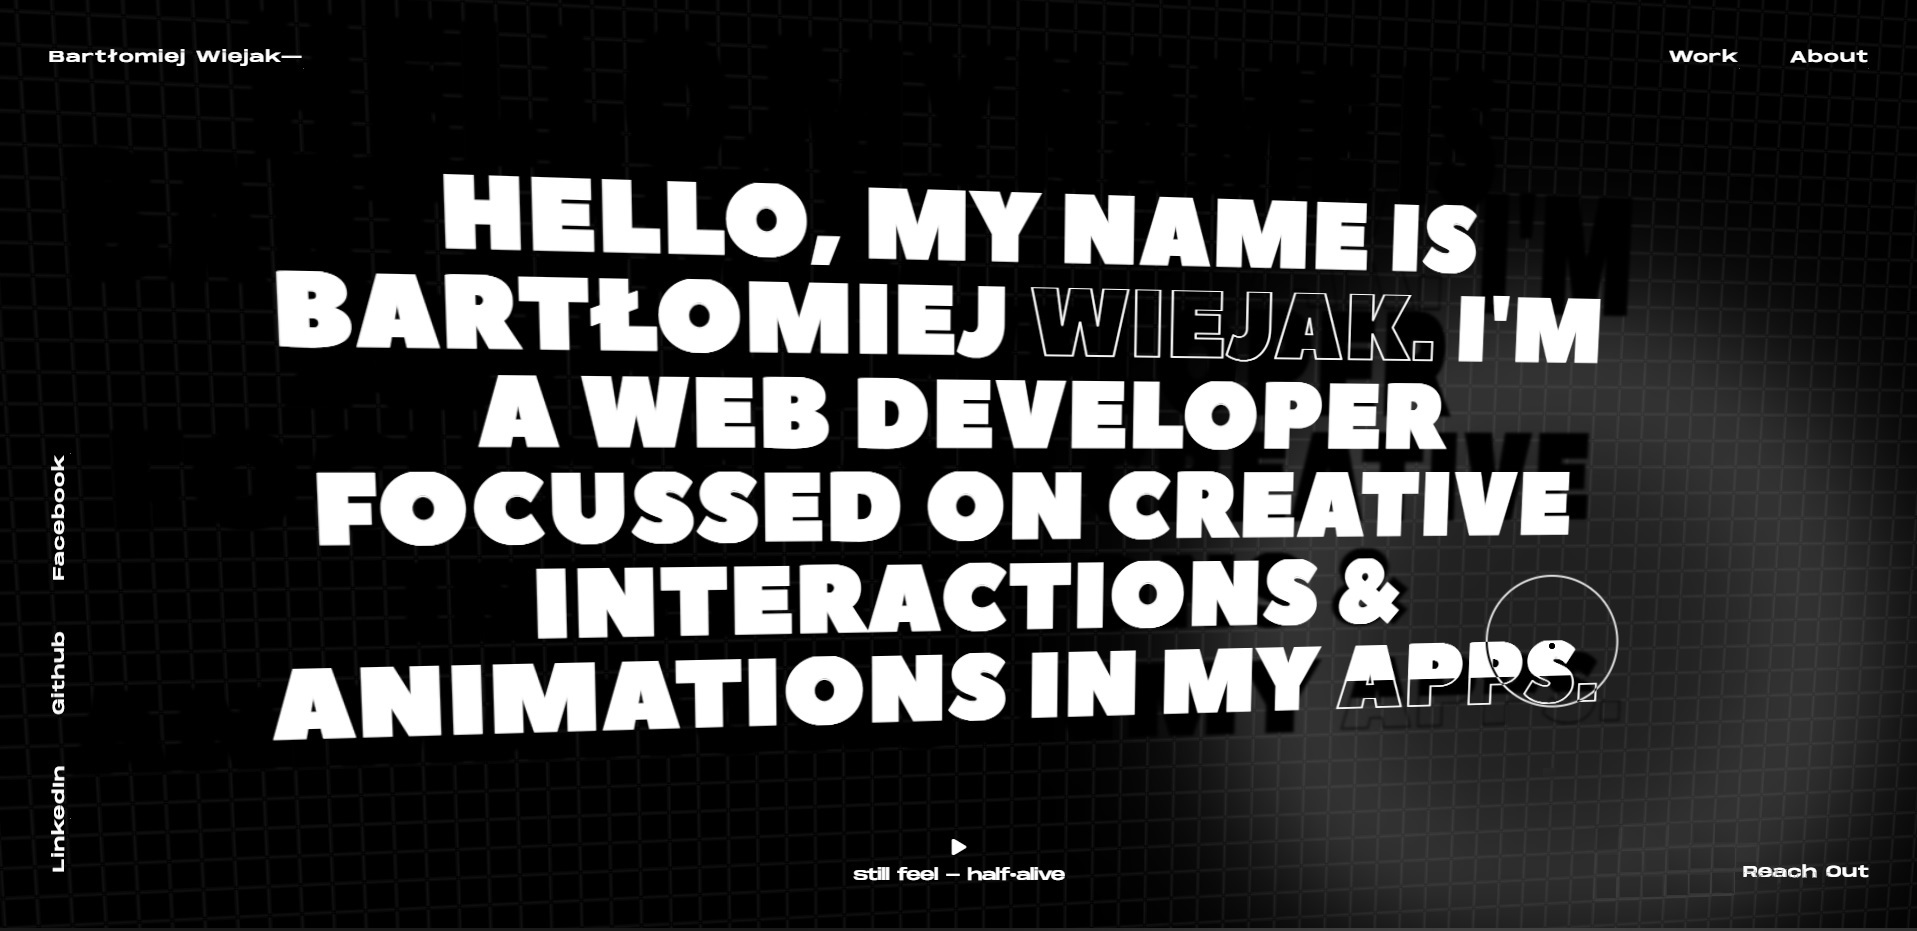
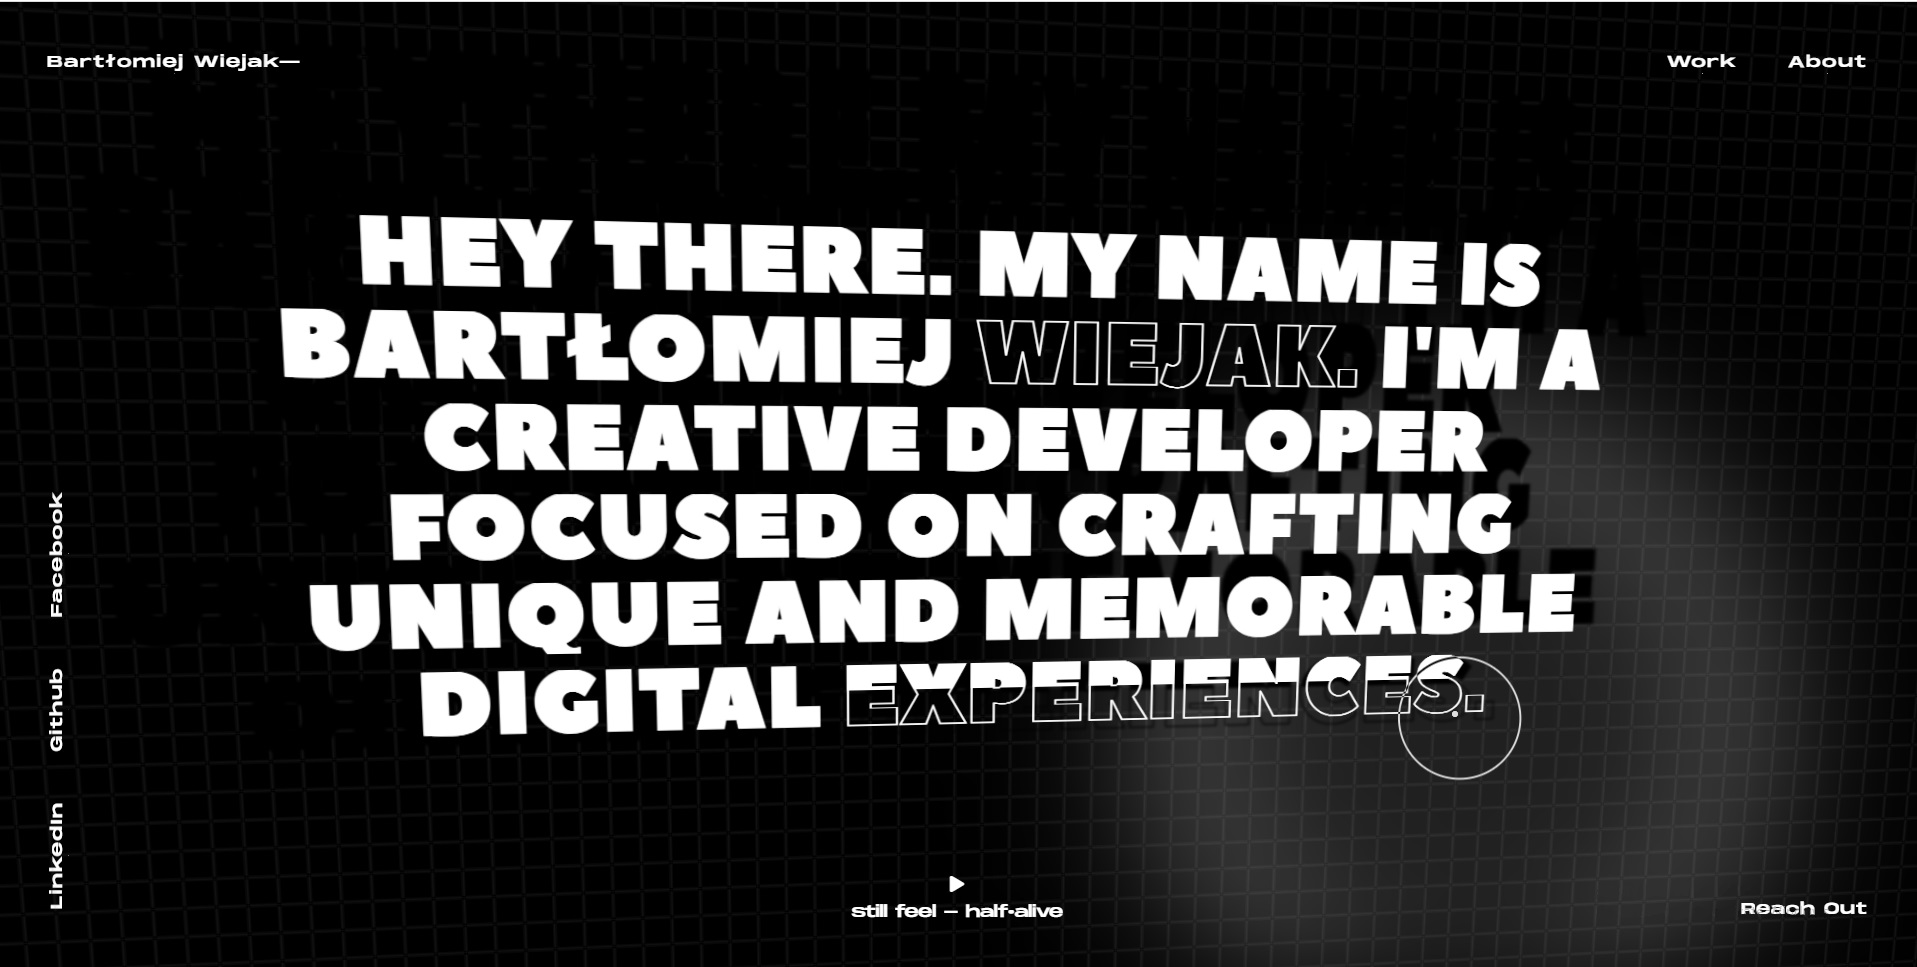
Change meta description and preview image

diff --git a/public/index.html b/public/index.html
@@ -2,16 +2,16 @@
 <html lang="en" prefix="og: https://ogp.me/ns#">
 
 <head>
-  <title>Bartłomiej Wiejak — Interactive Web Developer</title>
+  <title>Bartłomiej Wiejak — Creative Developer</title>
   <meta name="description"
-    content="Bartłomiej Wiejak is a web developer focussed on creative interactions and slick animations in his apps.">
+    content="Bartłomiej Wiejak is a Creative Developer focused on JavaScript for interactive projects.">
   <meta name="theme-color" content="#ffffff" />
   <meta charset="utf-8" />
   <meta name="viewport" content="width=device-width, initial-scale=1, shrink-to-fit=no" />
   <meta property="og:type" content="website">
-  <meta property="og:title" content="Bartłomiej Wiejak - Interactive Web Developer">
+  <meta property="og:title" content="Bartłomiej Wiejak — Creative Developer">
   <meta property="og:description"
-    content="Bartłomiej Wiejak is a Web Developer focussed on creative interactions and slick animations in his apps.">
+    content="Bartłomiej Wiejak is a Creative Developer focused on JavaScript for interactive projects.">
   <meta name="image" property="og:image" content="http://bartlomiejwiejak.com/preview.jpg">
   <meta property="og:url" content="https://bartlomiejwiejak.com">
   <meta name=”author” content="Bartłomiej Wiejak" />
